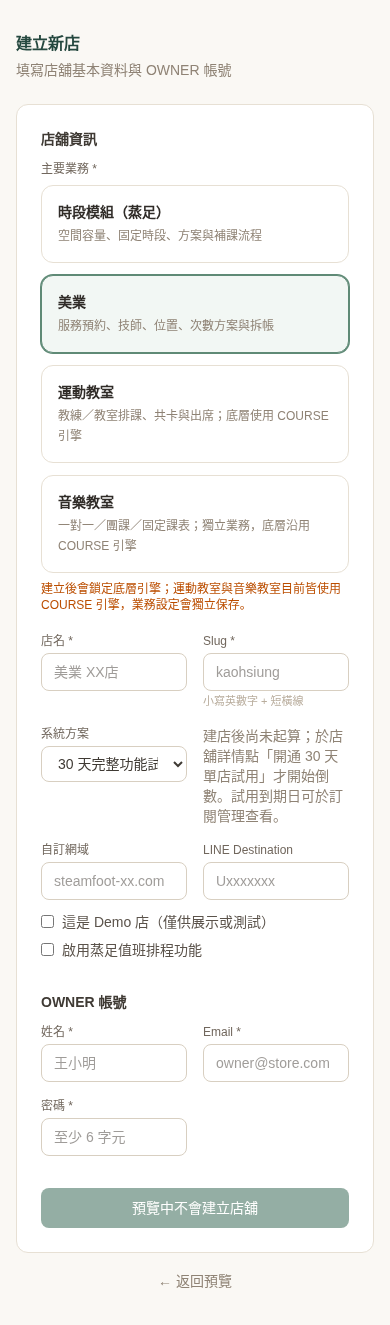
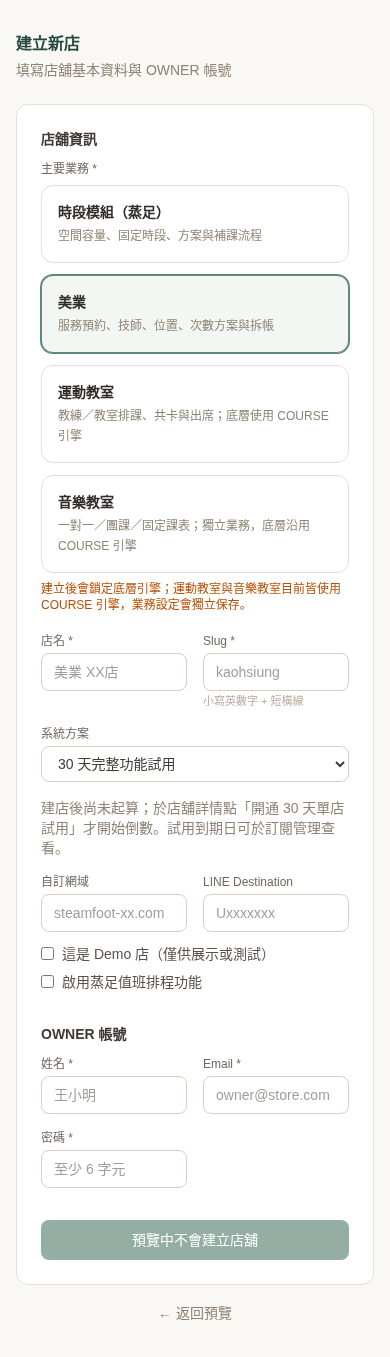
Keep Beauty trial selection and activation guidance readable on mobile

diff --git a/src/app/hq/dashboard/stores/new/new-store-form.tsx b/src/app/hq/dashboard/stores/new/new-store-form.tsx
@@ -269,6 +269,7 @@ export default function NewStoreForm({ previewOnly = false }: { previewOnly?: bo
               hint="小寫英數字 + 短橫線"
             />
             <SelectField
+              className={industryModule === "BEAUTY" ? "col-span-2 sm:col-span-1" : undefined}
               label="系統方案"
               value={plan}
               onChange={setPlan as (v: string) => void}
@@ -279,7 +280,7 @@ export default function NewStoreForm({ previewOnly = false }: { previewOnly?: bo
                 { value: "ALLIANCE", label: "ALLIANCE" },
               ]}
             />
-            {industryModule === "BEAUTY" && <p className="text-sm text-earth-500 sm:col-span-2">建店後尚未起算；於店舖詳情點「開通 30 天單店試用」才開始倒數。試用到期日可於訂閱管理查看。</p>}
+            {industryModule === "BEAUTY" && <p className="col-span-2 text-sm text-earth-500">建店後尚未起算；於店舖詳情點「開通 30 天單店試用」才開始倒數。試用到期日可於訂閱管理查看。</p>}
             <Field
               label="自訂網域"
               value={domain}
@@ -485,18 +486,20 @@ function Field({
 }
 
 function SelectField({
+  className,
   label,
   value,
   onChange,
   options,
 }: {
+  className?: string;
   label: string;
   value: string;
   onChange: (v: string) => void;
   options: { value: string; label: string }[];
 }) {
   return (
-    <div>
+    <div className={className}>
       <label className="block text-xs font-medium text-earth-600">
         {label}
       </label>

diff --git a/docs/beauty/launch-ready-20261025.md b/docs/beauty/launch-ready-20261025.md
@@ -40,3 +40,5 @@
 - [調整前](evidence/20261025-launch-ready/trial-ui/before-1024.png)／[調整後](evidence/20261025-launch-ready/trial-ui/after-1024.png)。
 
 試用修正候選尚待正式建置與網域核對，完成後補記實際部署 ID。
+
+手機實看後將美業試用選單與說明改為完整欄寬，避免文字擠在右側半欄；四種尺寸再次通過，更新畫面證據。候選 dpl_Bqv9yv5Fe4794ZF5gCS8wfcobW2k 在 BUILDING 時取消，未發布，改由包含此手機修正的後繼版本發布。
